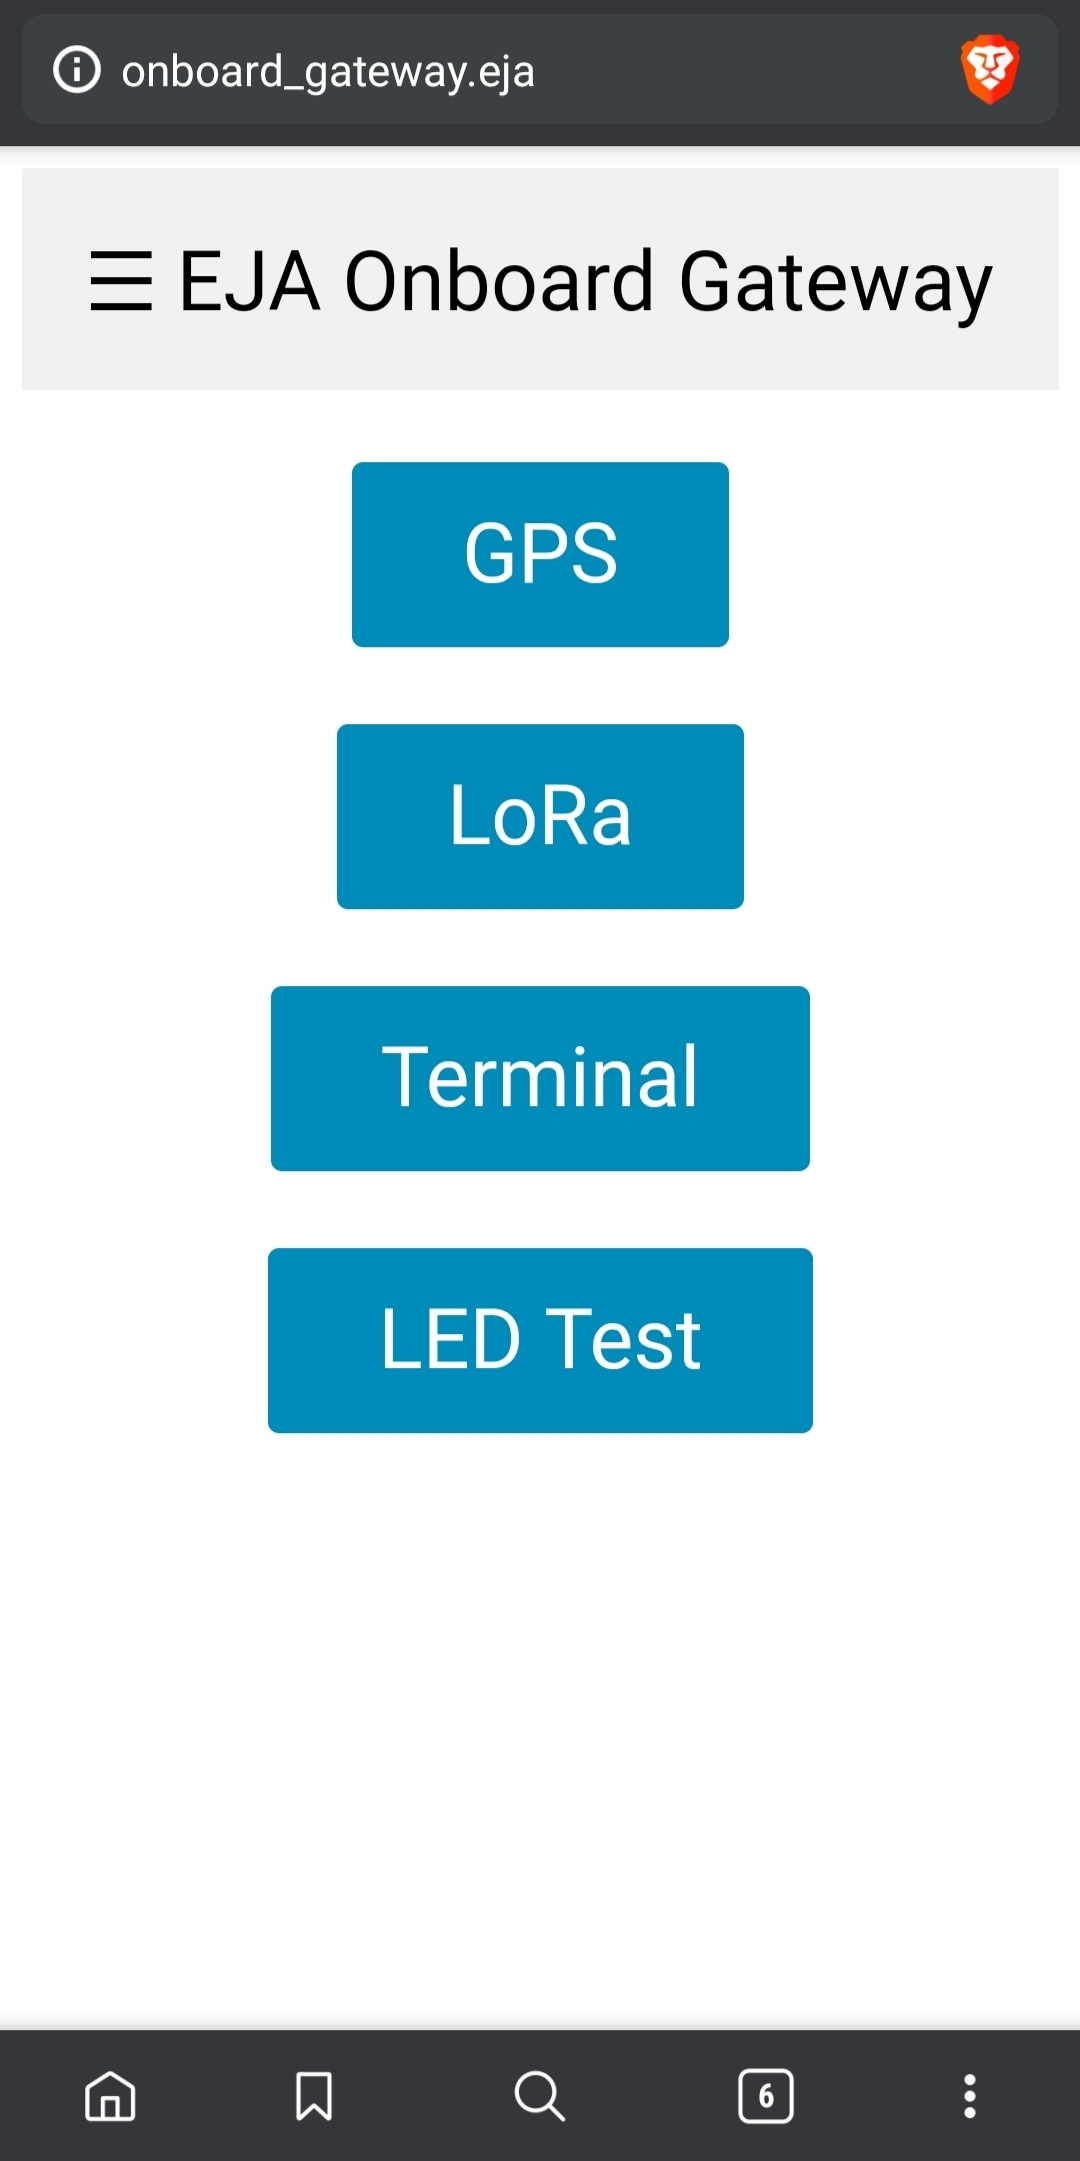
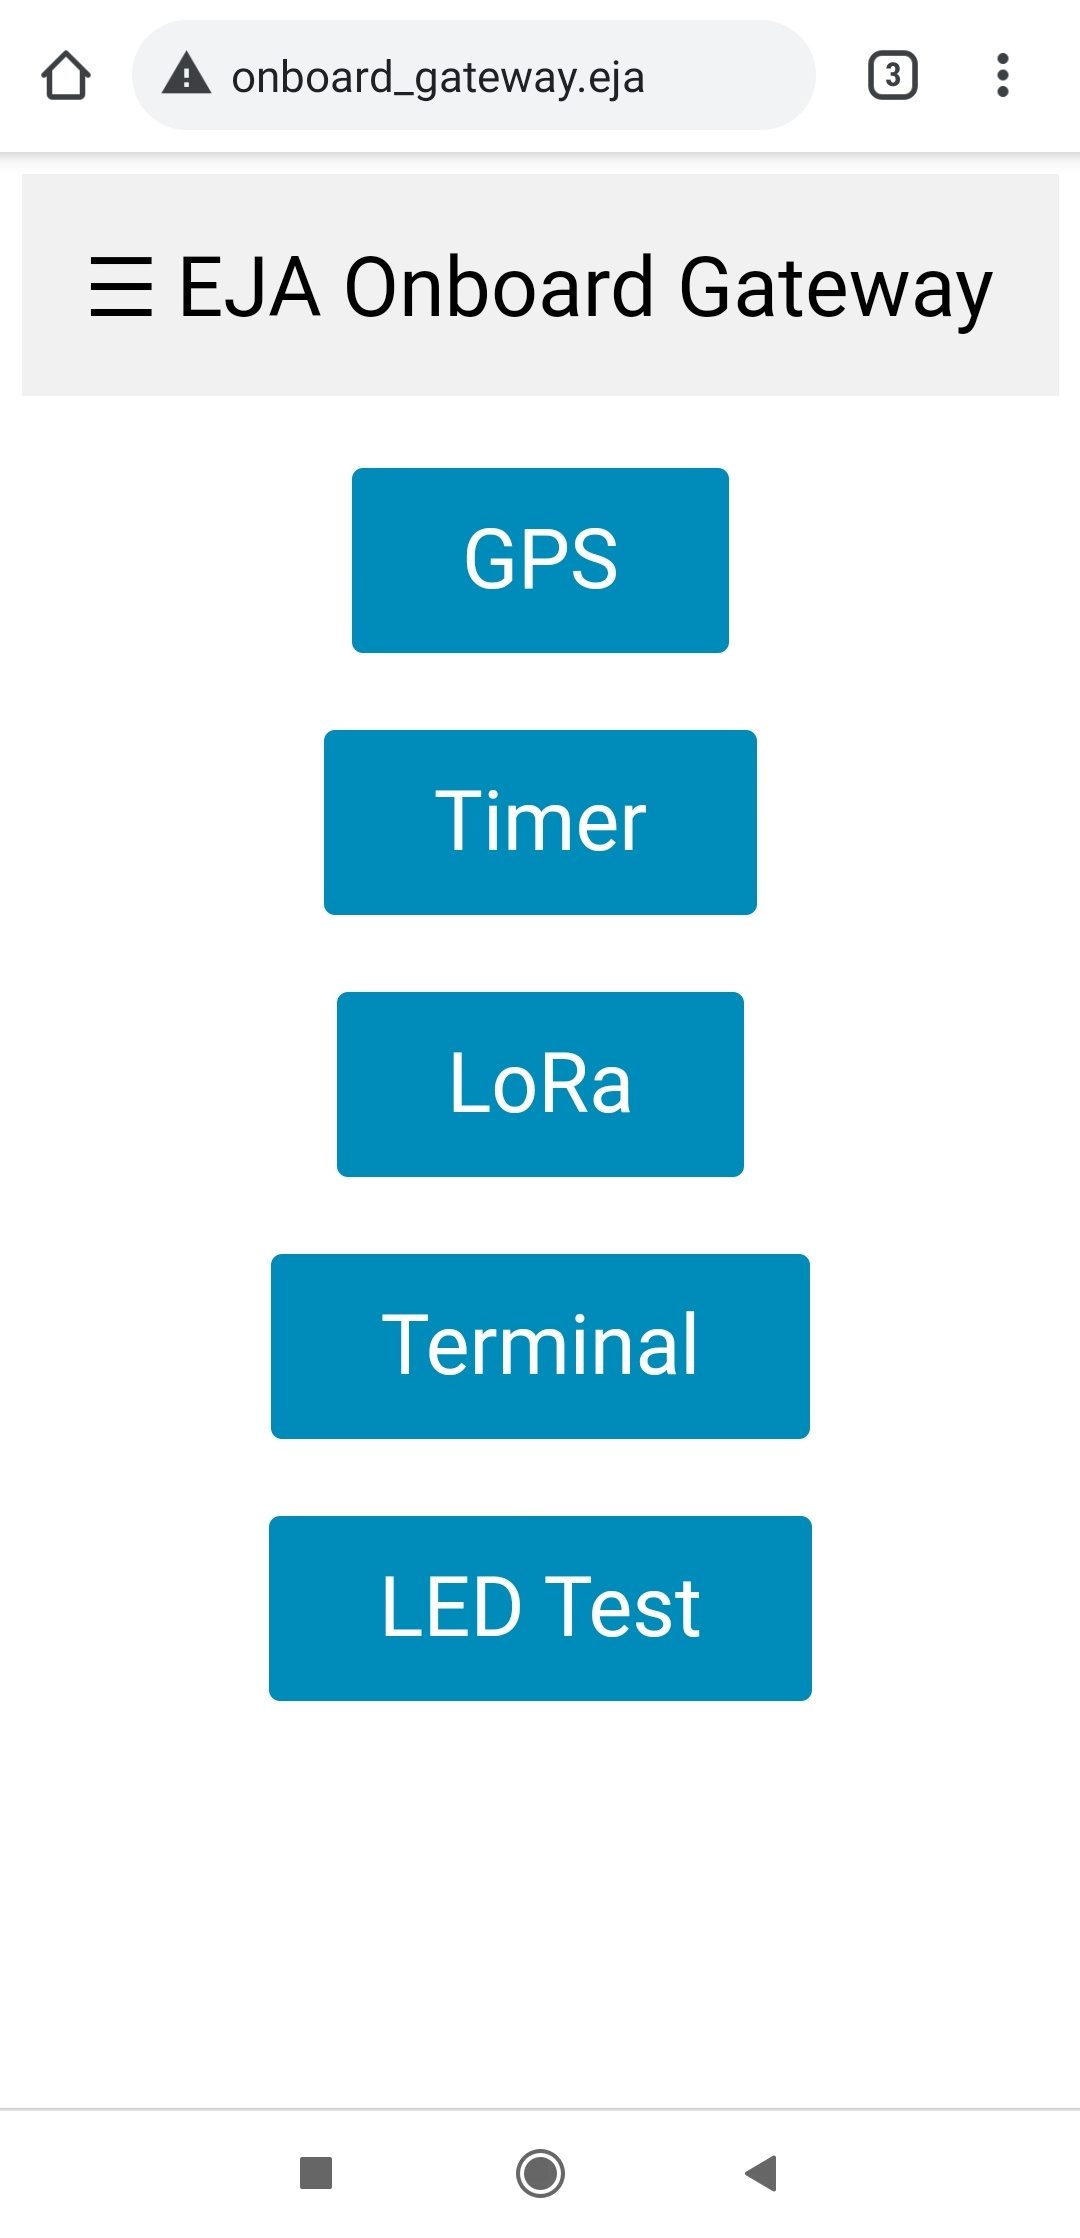
Added timer images

diff --git a/README.md b/README.md
@@ -39,6 +39,8 @@ Once the device (phone/computer) is connected to the server (EJA_Onboard_Gateway
 http://www.onboard_gateway.eja/
 ```
 
+### HOME ###
+
 The previous link displays the web page used for HOME:
 
 <img src="./img/home.jpg" width="50%">
@@ -47,9 +49,35 @@ There is a header with the name "EJA Onboard Gateway" that opens a sidebar with 
 
 <img src="./img/menu.jpg" width="50%">
 
+### GPS ###
+
 The page http://www.onboard_gateway.eja/gps shows the data from the GPS module.
 
 <img src="./img/gps.jpg" width="50%">
+
+### Timer ###
+
+The page http://www.onboard_gateway.eja/timer shows the interface to create a timer in the Buoy. The timer represents a countdown that activates the release mechanism when the time has reached zero. The initial page allows the user to set the timer.
+
+<img src="./img/settimer_filled.jpg" width="50%">
+
+After selecting the amount of time the user has to click the **Submit** button. That will send the information to the buoy to create a timer.
+
+<img src="./img/settimer_updating_buoy.jpg" width="50%">
+
+The Onboard Gateway communicates with the Buoy, and once it receives the confirmation that the timer has been properly set, it displays the countdown to the user.
+
+<img src="./img/remaining_time.jpg" width="50%">
+
+In the Onboard Gateway, the countdown timer is an estimate of the one that is running in the Buoy. When the timer reaches zero, the Buoy activates the release mechanism.
+
+<img src="./img/timer_reached_zero.jpg" width="50%">
+
+The user can delete the timer at any time clicking the button **Delete Timer**. But it will only work if the Onboard Gateway has communication with the Buoy. When the user deletes the timer, it is possible to create a new one a restart the process.
+
+<img src="./img/delete_timer.jpg" width="50%">
+
+### LoRa ###
 
 The page http://www.onboard_gateway.eja/lora shows internal messages related to LoRa. In the ESP32 that information is stored in the variable:
 
@@ -59,6 +87,8 @@ String lora_all_msg = "";
 
 <img src="./img/lora_01.jpg" width="50%">
 
+### Terminal ###
+
 The page http://www.onboard_gateway.eja/terminal shows internal messages. In the ESP32 that information is stored in the variable:
 
 ```
@@ -66,6 +96,8 @@ String terminal_messages = "";
 ```
 
 <img src="./img/terminal.jpg" width="50%">
+
+### LED Test ###
 
 There is an additional page http://www.onboard_gateway.eja/toggle_led_on that can be use to change the state of a LED, the GPIO port used is define in the following variable of the script:
 
